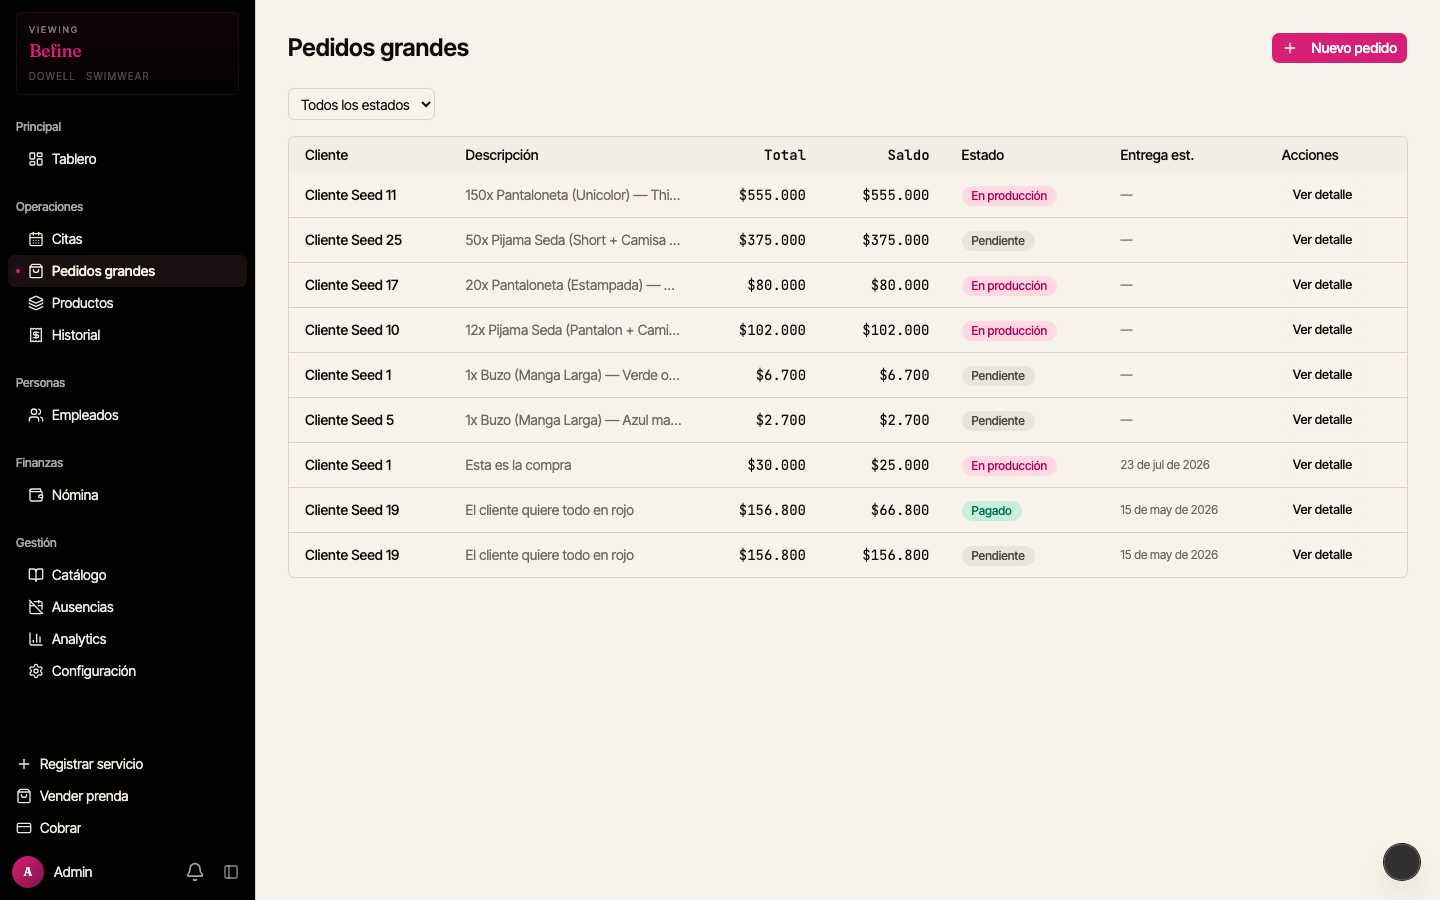
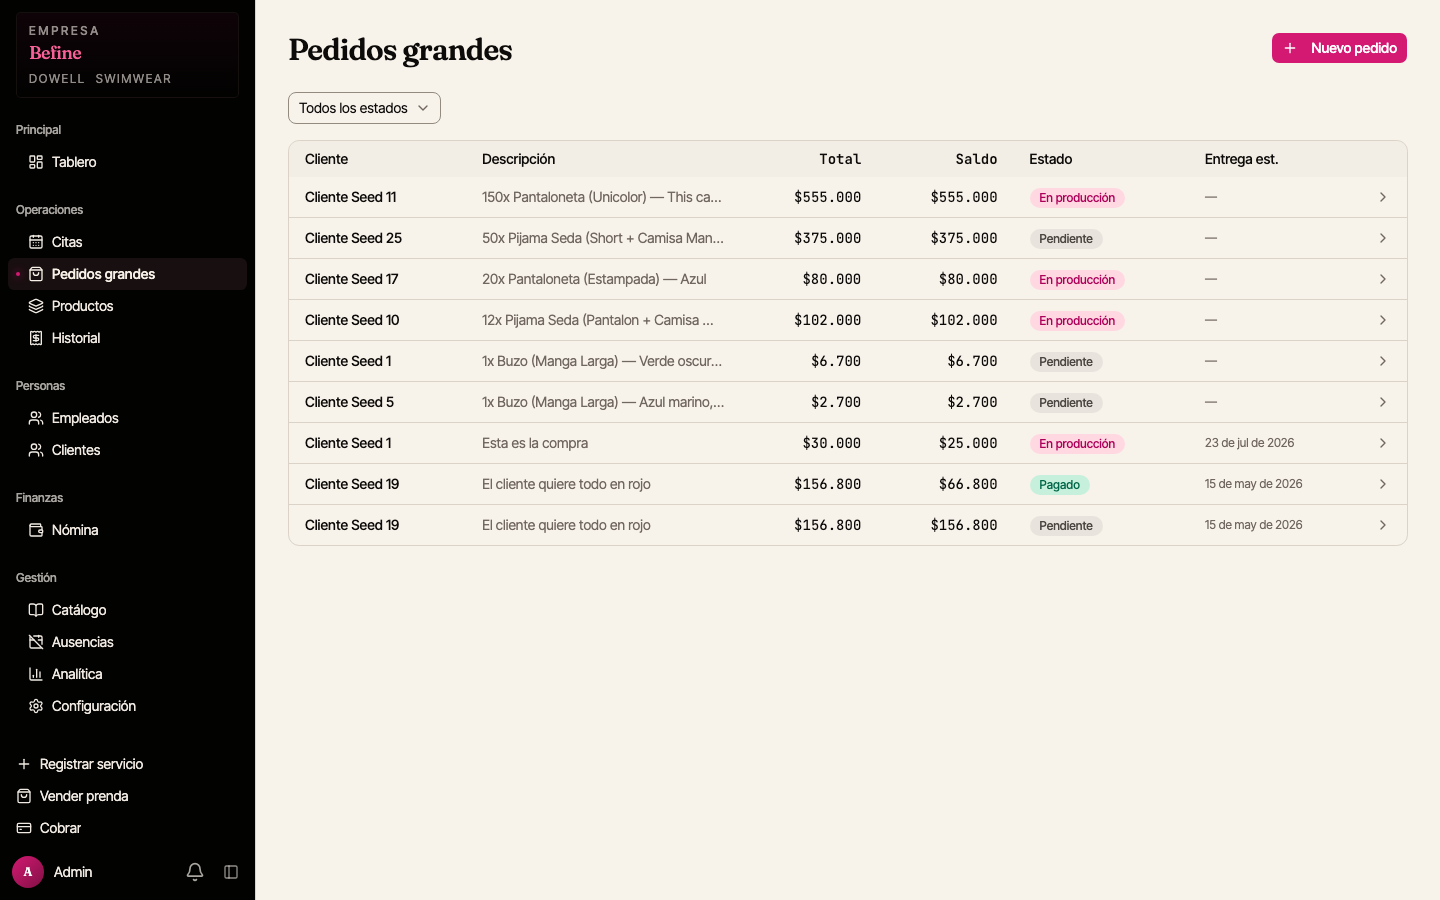
docs(training): refresh screenshots for the redesigned screens
Regenerated with `playwright test e2e/screenshots.spec.ts --project=chromium`
(desktop only: the mobile project writes the same paths and would overwrite
them). The spec now hides the Next.js dev-tools badge, which was baked into
every capture taken against `next dev`.

diff --git a/apps/web/e2e/screenshots.spec.ts b/apps/web/e2e/screenshots.spec.ts
@@ -210,6 +210,9 @@ async function captureScreen(page: Page, screen: ScreenDef, outPath: string): Pr
   await page.keyboard.press("Escape");
   await page.waitForTimeout(100);
 
+  // Hide the Next.js dev-tools badge ("N issues"); it only exists under `next dev`
+  await page.addStyleTag({ content: "nextjs-portal { display: none !important; }" });
+
   await page.screenshot({
     path: outPath,
     fullPage: true,
